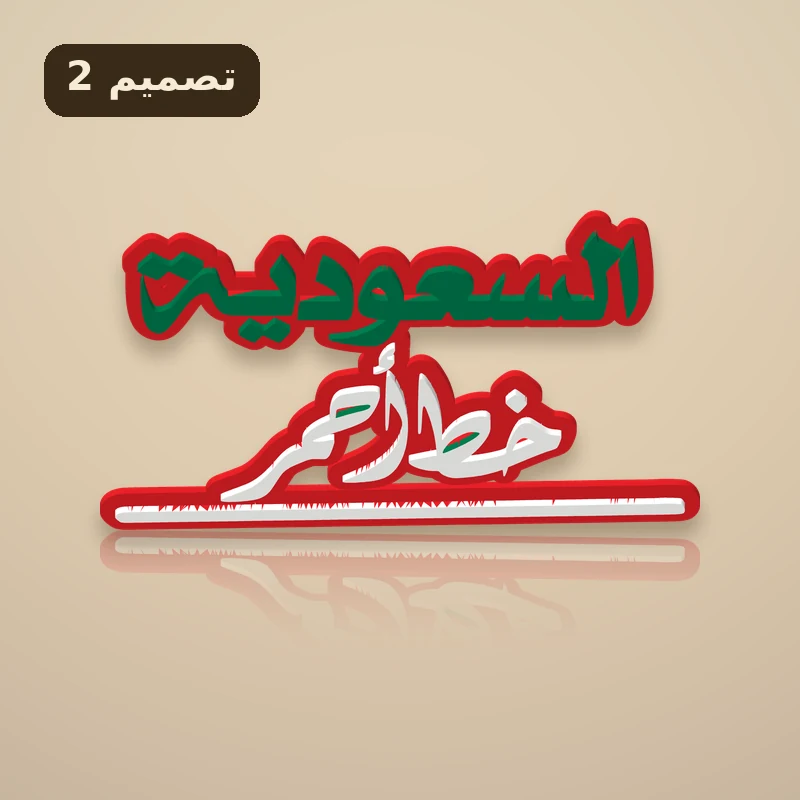
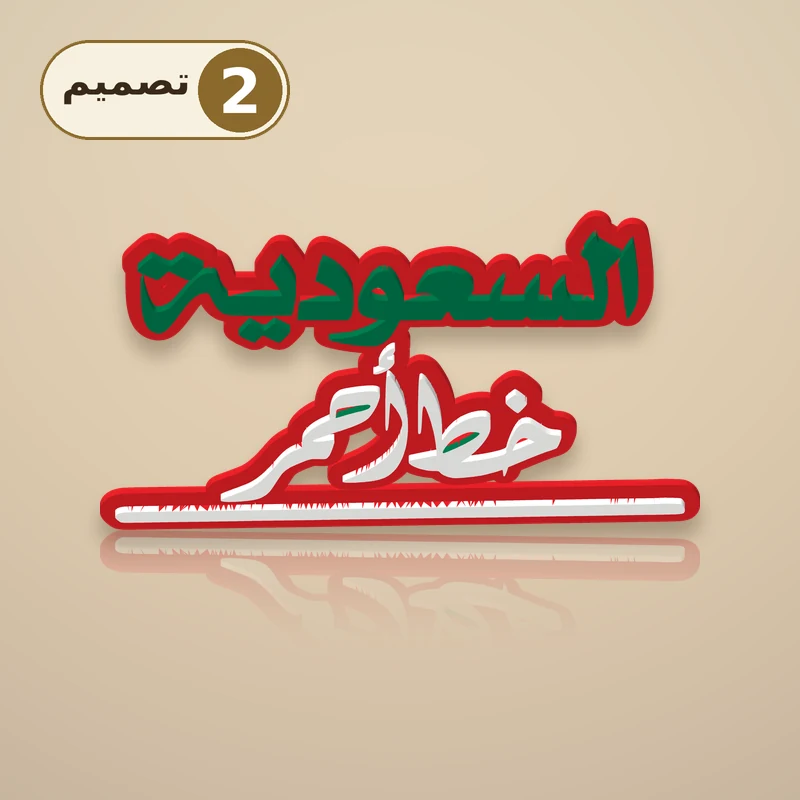
redline: أسعار الأوزان الحقيقية، التصميم 3 بأسعار المالك، عرض الـ100 للكل، شارة رقم أوضح، حذف مربع كل التصاميم (#56)
* redline: منتج توزيعات السعودية خط أحمر (5 تصاميم)، عرض خاص للـ100 حبة، وصل حديثًا

Claude-Session: https://claude.ai/code/session_017P9QyCJgykdsNfd9KJgfgW

* redline: التصميم رقم 3 بسعر 4.70 لكل الكميات (ربح ≈1 ريال)، ترتيب الصور حسب الأشطال

Claude-Session: https://claude.ai/code/session_017P9QyCJgykdsNfd9KJgfgW

* redline: سعر لكل تصميم حسب وزنه، اختيار رقم التصميم، رقم التصميم على كل صورة، عرض الـ100 يشمل الكل

Claude-Session: https://claude.ai/code/session_017P9QyCJgykdsNfd9KJgfgW

* redline: حذف مربع «كل التصاميم» من لوحة الأسعار (v270)

Claude-Session: https://claude.ai/code/session_017P9QyCJgykdsNfd9KJgfgW

* redline: أسعار الأوزان الحقيقية لكل التصاميم، التصميم 3 بأسعار المالك (4.80/4.75/4.70/4.65)، عرض الـ100 لكل التصاميم، شارة رقم أوضح (v271)

Claude-Session: https://claude.ai/code/session_017P9QyCJgykdsNfd9KJgfgW

* redline: التصميم 3 بأسعار 4.85/4.80/4.75/4.70

Claude-Session: https://claude.ai/code/session_017P9QyCJgykdsNfd9KJgfgW

---------

Changed region(s): [[0.0312, 0.0312, 0.375, 0.1875]]

diff --git a/index.html b/index.html
@@ -286,8 +286,8 @@ textarea{font:inherit;font-size:16px;width:100%;padding:10px 12px;border-radius:
 .dbox{margin:14px 0 10px}.dbox .lbl{font-size:13px;color:var(--muted);margin-bottom:6px}
 .dtabs{display:grid;grid-template-columns:repeat(4,1fr);gap:6px}.dtabs button{border:1px solid var(--line);background:var(--surface);color:var(--fg);border-radius:12px;padding:10px 4px;font:inherit;font-weight:600;font-size:14px;cursor:pointer;transition:background .15s,border-color .15s}
 .dtabs button[aria-selected="true"]{background:var(--accent);color:var(--accent-fg);border-color:var(--accent)}
-.dsel{display:grid;grid-template-columns:repeat(5,1fr);gap:6px;margin-bottom:12px}.dsel button{position:relative;padding:0;border:2px solid var(--line);border-radius:12px;overflow:hidden;background:var(--stage,#e8d9be);cursor:pointer;aspect-ratio:1}.dsel button img{width:100%;height:100%;object-fit:cover;display:block}.dsel button b{position:absolute;top:4px;inset-inline-start:4px;min-width:20px;height:20px;border-radius:999px;background:var(--ink);color:var(--bg);font-size:12px;display:grid;place-items:center;padding:0 4px}.dsel button[aria-selected="true"]{border-color:var(--accent);box-shadow:0 0 0 2px var(--accent)}
-.xth button{position:relative}.xth .xn{position:absolute;top:2px;inset-inline-start:2px;min-width:16px;height:16px;border-radius:999px;background:var(--ink);color:var(--bg);font:700 10px/16px inherit;font-style:normal;text-align:center}
+.dsel{display:grid;grid-template-columns:repeat(5,1fr);gap:6px;margin-bottom:12px}.dsel button{position:relative;padding:0;border:2px solid var(--line);border-radius:12px;overflow:hidden;background:var(--stage,#e8d9be);cursor:pointer;aspect-ratio:1}.dsel button img{width:100%;height:100%;object-fit:cover;display:block}.dsel button b{position:absolute;top:5px;inset-inline-start:5px;min-width:28px;height:28px;border-radius:999px;background:#8a6a2c;color:#fff;border:2px solid #fff;box-shadow:0 1px 4px rgba(0,0,0,.35);font-size:15px;font-weight:800;display:grid;place-items:center;padding:0 4px}.dsel button[aria-selected="true"]{border-color:var(--accent);box-shadow:0 0 0 2px var(--accent)}
+.xth button{position:relative}.xth .xn{position:absolute;top:2px;inset-inline-start:2px;min-width:20px;height:20px;border-radius:999px;background:#8a6a2c;color:#fff;border:1.5px solid #fff;font:800 12px/17px inherit;font-style:normal;text-align:center}
 .dall{margin-top:8px;padding-top:6px;border-top:1px solid var(--line)}.dall-h{font-size:12.5px;color:var(--muted);padding:4px 0}.dall-r{display:flex;justify-content:space-between;align-items:baseline;width:100%;padding:8px 10px;margin:3px 0;border:1px solid var(--line);border-radius:10px;background:var(--surface);color:var(--fg);font:inherit;font-size:14px;cursor:pointer}.dall-r[aria-pressed="true"]{border-color:var(--accent);background:rgba(138,106,44,.1)}
 .dpanel{margin:10px 0 8px;border:1px solid var(--line);border-radius:14px;background:var(--surface);padding:6px 14px}
 .dp-row{display:flex;justify-content:space-between;align-items:baseline;gap:10px;padding:9px 0;border-bottom:1px dashed var(--line)}.dp-row:last-child{border-bottom:0}.dp-row span{color:var(--muted);font-size:14px}.dp-row b{font-size:17px;color:var(--ink)}

diff --git a/sw.js b/sw.js
@@ -1,7 +1,7 @@
 // RAX3D shop: network first (always fresh), falls back to cache when offline.
 // v38: points.json is network-only (never cached), old caches are deleted on activate,
 // and 3D models (models/) are capped to the last 8 used so phones don't fill up.
-const C = 'rax3d-shop-v269', M = 'rax3d-models-v104', MAX_MODELS = 8;
+const C = 'rax3d-shop-v271', M = 'rax3d-models-v104', MAX_MODELS = 8;
 self.addEventListener('install', e => self.skipWaiting());
 self.addEventListener('activate', e => e.waitUntil(
   caches.keys().then(ks => Promise.all(ks.filter(k => k !== C && k !== M).map(k => caches.delete(k)))).then(() => self.clients.claim())

diff --git a/tools/crowd-mix.py b/tools/crowd-mix.py
@@ -31,10 +31,13 @@ def vignette(canvas):
     res=np.array(canvas.convert('RGB')).astype(np.float32);res=res*(1-v[...,None]*.85)+np.array(BG.convert('RGB')).astype(np.float32)*v[...,None]*.85
     return Image.fromarray(res.clip(0,255).astype(np.uint8))
 def badge(img,n):
-    """design-number tag in the top corner of each per-design image: a dark pill 'تصميم N' (Pillow built with raqm)"""
-    txt=f'تصميم {n}'   # Pillow with raqm shapes Arabic itself
-    f=ImageFont.truetype('/usr/share/fonts/truetype/dejavu/DejaVuSans-Bold.ttf',40);d=ImageDraw.Draw(img);b=d.textbbox((0,0),txt,font=f);w,h=b[2]-b[0],b[3]-b[1]
-    x0,y0=44,44;d.rounded_rectangle((x0,y0,x0+w+44,y0+h+32),22,fill=(58,42,24,235));d.text((x0+22-b[0],y0+16-b[1]),txt,font=f,fill=(246,236,214,255))
+    """design-number badge in the top corner of each per-design image: a cream pill with a gold circle holding a big numeral and the word «تصميم» (Pillow built with raqm shapes the Arabic)"""
+    S=2;W,Hh=250*S,100*S;bd=Image.new('RGBA',(W,Hh),(0,0,0,0));d=ImageDraw.Draw(bd)
+    d.rounded_rectangle((0,0,W-1,Hh-1),Hh//2,fill=(250,243,228,245),outline=(138,106,44,255),width=3*S)
+    r=Hh//2-8*S;cx,cy=W-Hh//2,Hh//2;d.ellipse((cx-r,cy-r,cx+r,cy+r),fill=(138,106,44,255))
+    fn=ImageFont.truetype('/usr/share/fonts/truetype/dejavu/DejaVuSans-Bold.ttf',62*S);b=d.textbbox((0,0),str(n),font=fn);d.text((cx-(b[0]+b[2])/2,cy-(b[1]+b[3])/2),str(n),font=fn,fill=(255,255,255,255))
+    ft=ImageFont.truetype('/usr/share/fonts/truetype/dejavu/DejaVuSans-Bold.ttf',40*S);b=d.textbbox((0,0),'تصميم',font=ft);d.text((22*S+(W-Hh-22*S-(b[2]-b[0]))/2-b[0],cy-(b[1]+b[3])/2),'تصميم',font=ft,fill=(58,42,24,255))
+    bd=bd.resize((W//S,Hh//S),Image.LANCZOS);img.alpha_composite(bd,(40,40))
 # one image per design
 for i,p in enumerate(P,1):
     s=min(600/p.width,430/p.height);img=p.resize((max(2,int(p.width*s)),max(2,int(p.height*s))),Image.LANCZOS)

diff --git a/CLAUDE.md b/CLAUDE.md
@@ -190,5 +190,6 @@ For every new or re-priced product, check the wholesale price before publishing:
 - Tier prices by the standard formula: 50 = 3.75 (188), 100 = 3.40 (340), 500 = 3.10 (1,550), 1000 = 2.90 (2,900); header «ابتداءً من 2.90». Special offer on the 100 tab: 2.99 per piece = 299 SAR (`DISTOFF.redline`), same ratio as cool's offer; net about 0.39 per piece (12.9%).
 - Images: `hq/redline-0.webp` = crowd scene of all five designs (hero = «السعودية خط أحمر»); `hq/redline-x1..x5.webp` = one image per design, registered in `XIMG` (owner asked for the five); designs 4 and 5 use the owner's two glossy pictures cut out on the cream background, the other three are computer renders of the 3MF meshes (`tools/crowd-mix.py` composes them). All computer-composed: say so.
 - Added first in `NEW` (wilson moved from the end of NEW to the first of FEATURED, pcorn dropped from FEATURED) and first in the `DIST` strip. New products since the last pack: 1 of 20.
-- UPDATE 11-15 (owner): every design has its OWN price from its own plate weight/time (`DISTP.redline.v[1..5]`, g/h = the plate totals above), with a design-number selector (buttons with the design picture and number) on the piece page, a number badge baked into each `redline-xN.webp` («تصميم N», by `tools/crowd-mix.py`) and a number tag on the small thumbs; the panel also lists all five designs for the chosen quantity, highest price first. The order message carries the design number. Standard formula + floors for designs 1, 2, 4, 5 (50: 3.75, 100: 3.40, 500: 3.00, 1000: 2.65; design 1 = 2.70 at 1000). Design 3 (13.69 g / 0.861 h, cost 3.52) loses money at those prices, so `DISTX["redline#3"]` = 50: 4.95, 100: 4.85, 500: 4.75, 1000: 4.70 (still falling with quantity, net 1.02 to 1.24 SAR per piece, owner asked for at least 1). Special offer at 100 pcs covers ALL designs: 2.99 (designs 1, 2, 4, 5) and 4.70 (design 3, net 1.01); `DISTOFF.redline` and `DISTOFF["redline#3"]`. Header «ابتداءً من 2.65». The earlier flat 4.70 / average-weight lines above are superseded.
+- UPDATE 11-15 (owner): every design has its OWN price from its own plate weight/time (`DISTP.redline.v[1..5]`, g/h = the plate totals above), with a design-number selector (buttons with the design picture and number) on the piece page, a number badge baked into each `redline-xN.webp` («تصميم N», by `tools/crowd-mix.py`) and a number tag on the small thumbs. The order message carries the design number. Standard formula + floors for designs 1, 2, 4, 5 (50: 3.75, 100: 3.40, 500: 3.00, 1000: 2.65; design 1 = 2.70 at 1000). Design 3 (13.69 g / 0.861 h, cost 3.52) loses money at those prices, so `DISTX["redline#3"]` = 50: 4.95, 100: 4.85, 500: 4.75, 1000: 4.70 (still falling with quantity, net 1.02 to 1.24 SAR per piece, owner asked for at least 1). Special offer at 100 pcs covers ALL designs: 2.99 (designs 1, 2, 4, 5) and 4.70 (design 3, net 1.01); `DISTOFF.redline` and `DISTOFF["redline#3"]`. Header «ابتداءً من 2.65». The earlier flat 4.70 / average-weight lines above are superseded.
 - Design numbers = Bambu plate numbers; plates 4 and 5 (7.67 g / 7.70 g, same price) are assigned to the «بالغوا…» map = 4 and «رب اجعل…» map = 5 (not verified which is which).
+- FINAL 11-15 (owner set by hand): all redline designs priced on their real plate weights with NO floor (`nf`), except design 3: 50 = 4.85, 100 = 4.80, 500 = 4.75, 1000 = 4.70 (`DISTX["redline#3"]`). 100-piece offer for every design (`DISTOFF`): design 1 2.70, 2 2.45, 3 4.50, 4 and 5 2.65 (proposed by Claude, about 10% under the regular price). Header «ابتداءً من 2.40». Design number badge baked into each image (cream pill + gold circle).
